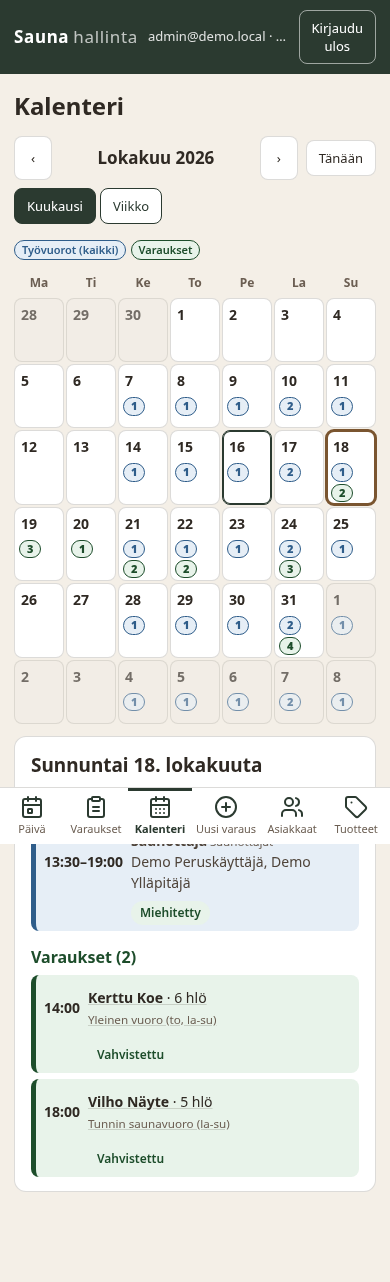
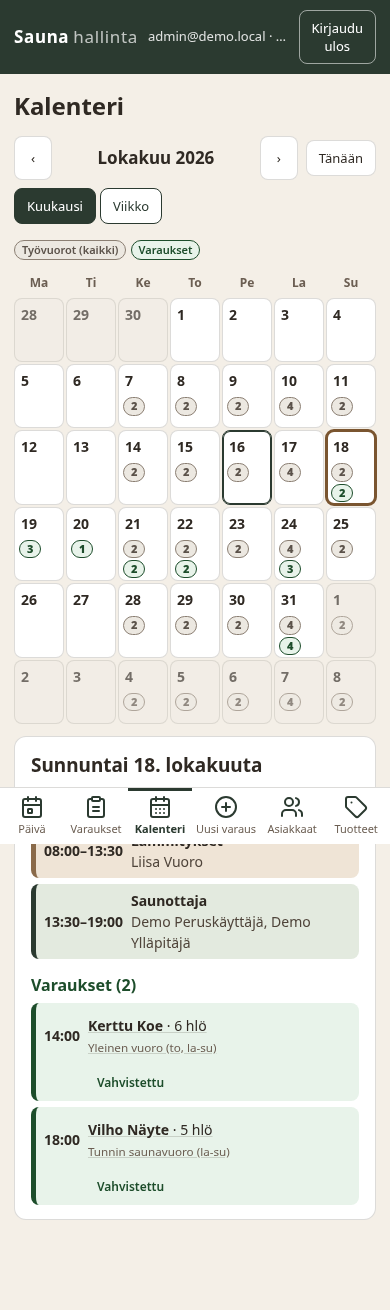
Hallinta: työvuorojen roolit ja miehitys suomeksi (Saunottaja) (#4)
* Hallinta: työvuorojen roolit ja miehitys suomeksi (Saunottaja)

* Hallinta: työvuorokorttien roolikohtaiset maavärit

* Hallinta: Miehitetty-merkki pois, ilmoitus vain nimeämättömille vuoroille

---------

diff --git a/booking/admin/views/calendar.js b/booking/admin/views/calendar.js
@@ -10,7 +10,19 @@ const dayKey = (iso) => new Date(iso).toLocaleDateString('sv-SE', { timeZone: TZ
 const dowMon = (ds) => (new Date(`${ds}T12:00:00Z`).getUTCDay() + 6) % 7;          // ma = 0
 const fmtLong = (ds) => new Intl.DateTimeFormat('fi-FI', { timeZone: 'UTC', weekday: 'long', day: 'numeric', month: 'long' }).format(new Date(`${ds}T12:00:00Z`));
 const WD = ['Ma', 'Ti', 'Ke', 'To', 'Pe', 'La', 'Su'];
-const STAFFING = { full: 'Miehitetty', open: 'Avoin', partial: 'Osittain' };
+// Työvuoron rooli ja miehitys näytetään aina suomeksi: kiinteä kartoitus tietokannan koodeista (role_type, staffing_status).
+// Tuntematon role_type → kalenterin nimi (calendar_name) tai koodi sellaisenaan. "Hoitaja" yhtenäistetään saunottajaksi.
+const ROLE_FI = { heater: 'Lämmitykset', reception: 'Vastaanotto', therapist: 'Saunottaja', saunottaja: 'Saunottaja', hoitaja: 'Saunottaja' };
+const fixRole = (x) => String(x).replace(/\bhoitaja(t)?\b/gi, (_, pl) => (pl ? 'Saunottajat' : 'Saunottaja'));
+export const roleLabel = (s) => ROLE_FI[String(s.role_type || '').toLowerCase()] || fixRole(s.calendar_name || s.role_type || 'Työvuoro');
+// Työvuorokortin väriluokka roolin mukaan (värit: calendar.css)
+const KIND_CLASS = { heater: 'shift-heater', therapist: 'shift-therapist', saunottaja: 'shift-therapist', hoitaja: 'shift-therapist', reception: 'shift-reception' };
+const NAME_CLASS = [[/lämmit/i, 'shift-heater'], [/saunottaja|hoitaja/i, 'shift-therapist'], [/vastaanot/i, 'shift-reception']];   // tuntematon koodi → kalenterin nimestä
+export const shiftClass = (s) => KIND_CLASS[String(s.role_type || '').toLowerCase()] || (NAME_CLASS.find(([re]) => re.test(s.calendar_name || '')) || [])[1] || 'shift-other';
+// Miehitysmerkki: näytetään AINOASTAAN jos vuorolle ei ole nimetty ketään. Ensisijaisesti nimettyjen henkilöiden perusteella (staff_name / names);
+// staffing_status (assigned/full/partial/open/unassigned) ei tuota merkkiä, jos nimettyjä on – data ei kerro tarvittua määrää, joten ei nimettyjä = ilmoitus, muuten ei mitään.
+export const NO_ASSIGNEE = 'Ei nimettyä tekijää';
+export const needsNotice = (s) => !(s.names && s.names.length);
 function isoWeek(ds) { const d = new Date(`${ds}T12:00:00Z`); const day = (d.getUTCDay() + 6) % 7; d.setUTCDate(d.getUTCDate() - day + 3); const y = d.getUTCFullYear(); const j = new Date(Date.UTC(y, 0, 4)); return 1 + Math.round(((d - j) / 864e5 - 3 + ((j.getUTCDay() + 6) % 7)) / 7); }
 
 export async function render({ ctx, refs, reload }) {
@@ -39,11 +51,11 @@ export async function render({ ctx, refs, reload }) {
   }
   const group = (rows, key) => { const m = new Map(); for (const r of rows) { const k = dayKey(r[key]); (m.get(k) || m.set(k, []).get(k)).push(r); } return m; };
 
-  const shiftItem = (s) => h('li', { class: 'cal-item shift', 'data-kind': 'shift' },
+  const shiftItem = (s) => h('li', { class: `cal-item shift ${shiftClass(s)}`, 'data-kind': 'shift' },
     h('span', { class: 'cal-time', text: `${fmtTime(s.starts_at)}–${fmtTime(s.ends_at)}` }),
-    h('span', { class: 'cal-txt' }, h('strong', { text: s.role_type || 'Työvuoro' }), s.calendar_name ? h('small', { text: ` ${s.calendar_name}` }) : null,
-      h('br'), h('span', { text: s.names.length ? s.names.join(', ') : 'Ei nimettyä henkilöä' })),
-    s.staffing_status ? badge(s.staffing_status === 'open' ? 'warn' : 'ok', STAFFING[s.staffing_status] || s.staffing_status) : null);
+    h('span', { class: 'cal-txt' }, h('strong', { text: roleLabel(s) }),
+      s.names.length ? [h('br'), h('span', { text: s.names.join(', ') })] : null),
+    needsNotice(s) ? badge('warn', NO_ASSIGNEE) : null);
   const bookingItem = (r) => h('li', { class: 'cal-item booking', 'data-kind': 'booking' },
     h('span', { class: 'cal-time', text: fmtTime(r.starts_at) }),
     h('button', { type: 'button', class: 'link cal-txt', onclick: () => reservationDialog(r, { methods: refs.methods, onChange: () => draw() }) }, h('strong', { text: r.customer_name || '–' }), ` · ${r.persons} hlö`, h('br'), h('small', { text: r.product_name || '' })),

diff --git a/booking/admin/calendar.css b/booking/admin/calendar.css
@@ -1,11 +1,15 @@
-/* Kalenterinäkymä (mobile first). Työvuorot sinisellä, varaukset vihreällä. */
-.cal{--shift:#2f5d8a;--shiftbg:#e6eef6;--book:#1d4d2b;--bookbg:#e8f3ea}
+/* Kalenterinäkymä (mobile first). Varaukset vihreällä; työvuorot hillityillä roolikohtaisilla maaväreillä (ei sinistä):
+   Lämmitykset = hiekka/ruskea, Saunottaja = vaimea vihreä, Vastaanotto = vaimea okra, muu = neutraali beige. */
+.cal{--shift:#5b524a;--shiftbg:#ece8e1;--shiftbar:#8b7f73;--book:#1d4d2b;--bookbg:#e8f3ea;
+  --heater:#6b4a2b;--heaterbg:#efe4d6;--heaterbar:#8a6a4a;
+  --therapist:#1d4d2b;--therapistbg:#e3eadf;--therapistbar:#2b3a30;
+  --reception:#5e4a12;--receptionbg:#f1ead2;--receptionbar:#b08d3c}
 .cal-bar{justify-content:space-between}
 .cal-title{flex:1;min-width:150px;text-align:center;font-size:17px;color:var(--ink);}.cal-title::first-letter,.cal-detail h2::first-letter{text-transform:uppercase}
 .cal-mode{display:inline-flex;gap:4px}.cal-mode .btn[aria-pressed=true]{background:var(--green);color:#fff}
 .cal-legend{margin:0 0 10px}
 .chip{display:inline-block;font-size:11px;font-weight:600;line-height:1.3;padding:2px 7px;border-radius:12px;white-space:nowrap}
-.chip.shift{background:var(--shiftbg);color:var(--shift);border:1px solid var(--shift)}
+.chip.shift{background:var(--shiftbg);color:var(--shift);border:1px solid var(--shiftbar)}
 .chip.booking{background:var(--bookbg);color:var(--book);border:1px solid var(--book)}
 .cal-grid{display:grid;gap:2px}
 .cal-grid.month{grid-template-columns:repeat(7,minmax(0,1fr))}
@@ -25,12 +29,19 @@
 .cal-grid.week .cal-dnum .wd{display:inline}
 .cal-list{list-style:none;margin:0;padding:0;display:grid;gap:6px}
 .cal-item{display:grid;grid-template-columns:auto 1fr auto;gap:8px;align-items:center;padding:6px 8px;border-radius:8px;border-left:5px solid;font-size:14px}
-.cal-item.shift{background:var(--shiftbg);border-color:var(--shift)}
+.cal-item.shift{background:var(--shiftbg);border-color:var(--shiftbar)}
+.cal-item.shift-heater{background:var(--heaterbg);border-color:var(--heaterbar)}
+.cal-item.shift-therapist{background:var(--therapistbg);border-color:var(--therapistbar)}
+.cal-item.shift-reception{background:var(--receptionbg);border-color:var(--receptionbar)}
+.cal-item.shift-other{background:var(--shiftbg);border-color:var(--shiftbar)}
+.cal-item.shift .cal-txt strong{color:var(--ink)}
+.cal-item.shift .badge{background:#fff;border:1px solid rgba(63,53,44,.25)}
+.cal-item.shift .badge.warn{background:var(--warnbg);border-color:#c9a45c}
 .cal-item.booking{background:var(--bookbg);border-color:var(--book)}
 .cal-time{font-weight:700;font-variant-numeric:tabular-nums;color:var(--ink)}
 .cal-txt{text-align:left}
 .cal-detail{margin-top:12px}.cal-detail h2{margin-top:0}
-.cal-detail .shift-h{color:var(--shift)}.cal-detail .booking-h{color:var(--book)}
+.cal-detail .shift-h{color:var(--green)}.cal-detail .booking-h{color:var(--book)}
 .notice{background:var(--warnbg);color:#6b4b00;padding:10px 12px;border-radius:8px;margin:0 0 10px}
 @media (max-width:520px){.cal-item{grid-template-columns:auto 1fr}.cal-item .badge{grid-column:2;justify-self:start}}
 @media (min-width:900px){

diff --git a/booking/docs/roolit-ja-kb.md b/booking/docs/roolit-ja-kb.md
@@ -83,6 +83,8 @@ Totuus on Google Calendar → Työvuoro-Tapio-synkka → `public.work_shifts`. V
 * palauttaa vain: `shift_id, starts_at, ends_at, role_type, calendar_name, staffing_status, staff_name` (**ei** puhelinta, sähköpostia, muistiinpanoja eikä kalenteri-id:tä); yksi rivi per nimetty työntekijä;
 * enintään 62 päivän aikaväli (muuten virhe `range_too_long`; +1 h liikkumavara kesäaikasiirtymälle), käänteinen/tyhjä väli → `invalid_range`;
 * `shifts.view_all` (admin, manager) näkee kaikki; `shifts.view` (staff) vain omat vuoronsa linkin `booking.staff.public_staff_id` kautta (ei linkkiä → tyhjä lista; omalta vuorolta ei näy kollegojen nimiä); ei kumpaakaan oikeutta → virhe `forbidden`.
+* **Näyttö suomeksi (v10, vain frontend, ei SQL-muutosta):** hallinnan kalenteri (`admin/views/calendar.js`) kartoittaa `role_type`-koodit kiinteästi suomeksi: `heater` → Lämmitykset, `reception` → Vastaanotto, `therapist` → Saunottaja. Tuntemattomalle koodille näytetään `calendar_name` (sana "Hoitaja" → "Saunottaja") tai koodi sellaisenaan. **Miehitysmerkki (v12):** työvuorokortissa ei näytetä "Miehitetty"/"Osittain"/"Avoin"-merkkiä lainkaan. Ainoa merkki on hillityllä ruskehtavan keltaisella "Ei nimettyä tekijää", ja se näytetään vain jos vuorolle ei ole nimettyä henkilöä (ei yhtään `staff_name`-arvoa). Ratkaisu tehdään ensisijaisesti nimettyjen perusteella; `staffing_status` ei tuota merkkiä, jos nimettyjä on (tarvittua määrää ei tiedetä, joten ei nimettyjä = ilmoitus, muuten ei merkkiä). Koodia ei näytetä käyttäjälle. Työvuorokortin väri määräytyy roolista (`calendar.css`, luokat `.shift-heater`, `.shift-therapist`, `.shift-reception`, `.shift-other`; hillityt maavärit, ei sinistä): Lämmitykset hiekka/ruskea (`#efe4d6` / reuna `#8a6a4a`), Saunottaja vaimea vihreä (`#e3eadf` / `#2b3a30`), Vastaanotto vaimea okra (`#f1ead2` / `#b08d3c`), muu neutraali beige (`#ece8e1` / `#8b7f73`). Teksti vs. tausta ≥ 7,5:1 (WCAG AA vaatii 4,5:1); e2e-testi tarkistaa kontrastin, ettei väri ole sininen ja että roolien värit eroavat.
+
 `public`-taulujen lukuoikeus annetaan vain funktion omistajalle (SECURITY DEFINER): `authenticated`/`anon` eivät saa suoria oikeuksia `public`-tauluihin (testikanta todistaa tämän: mockiin ei anneta GRANTteja).
 
 ### OLETETUT `public`-sarakkeet (varmistettava ennen migraatioiden ajoa!)
